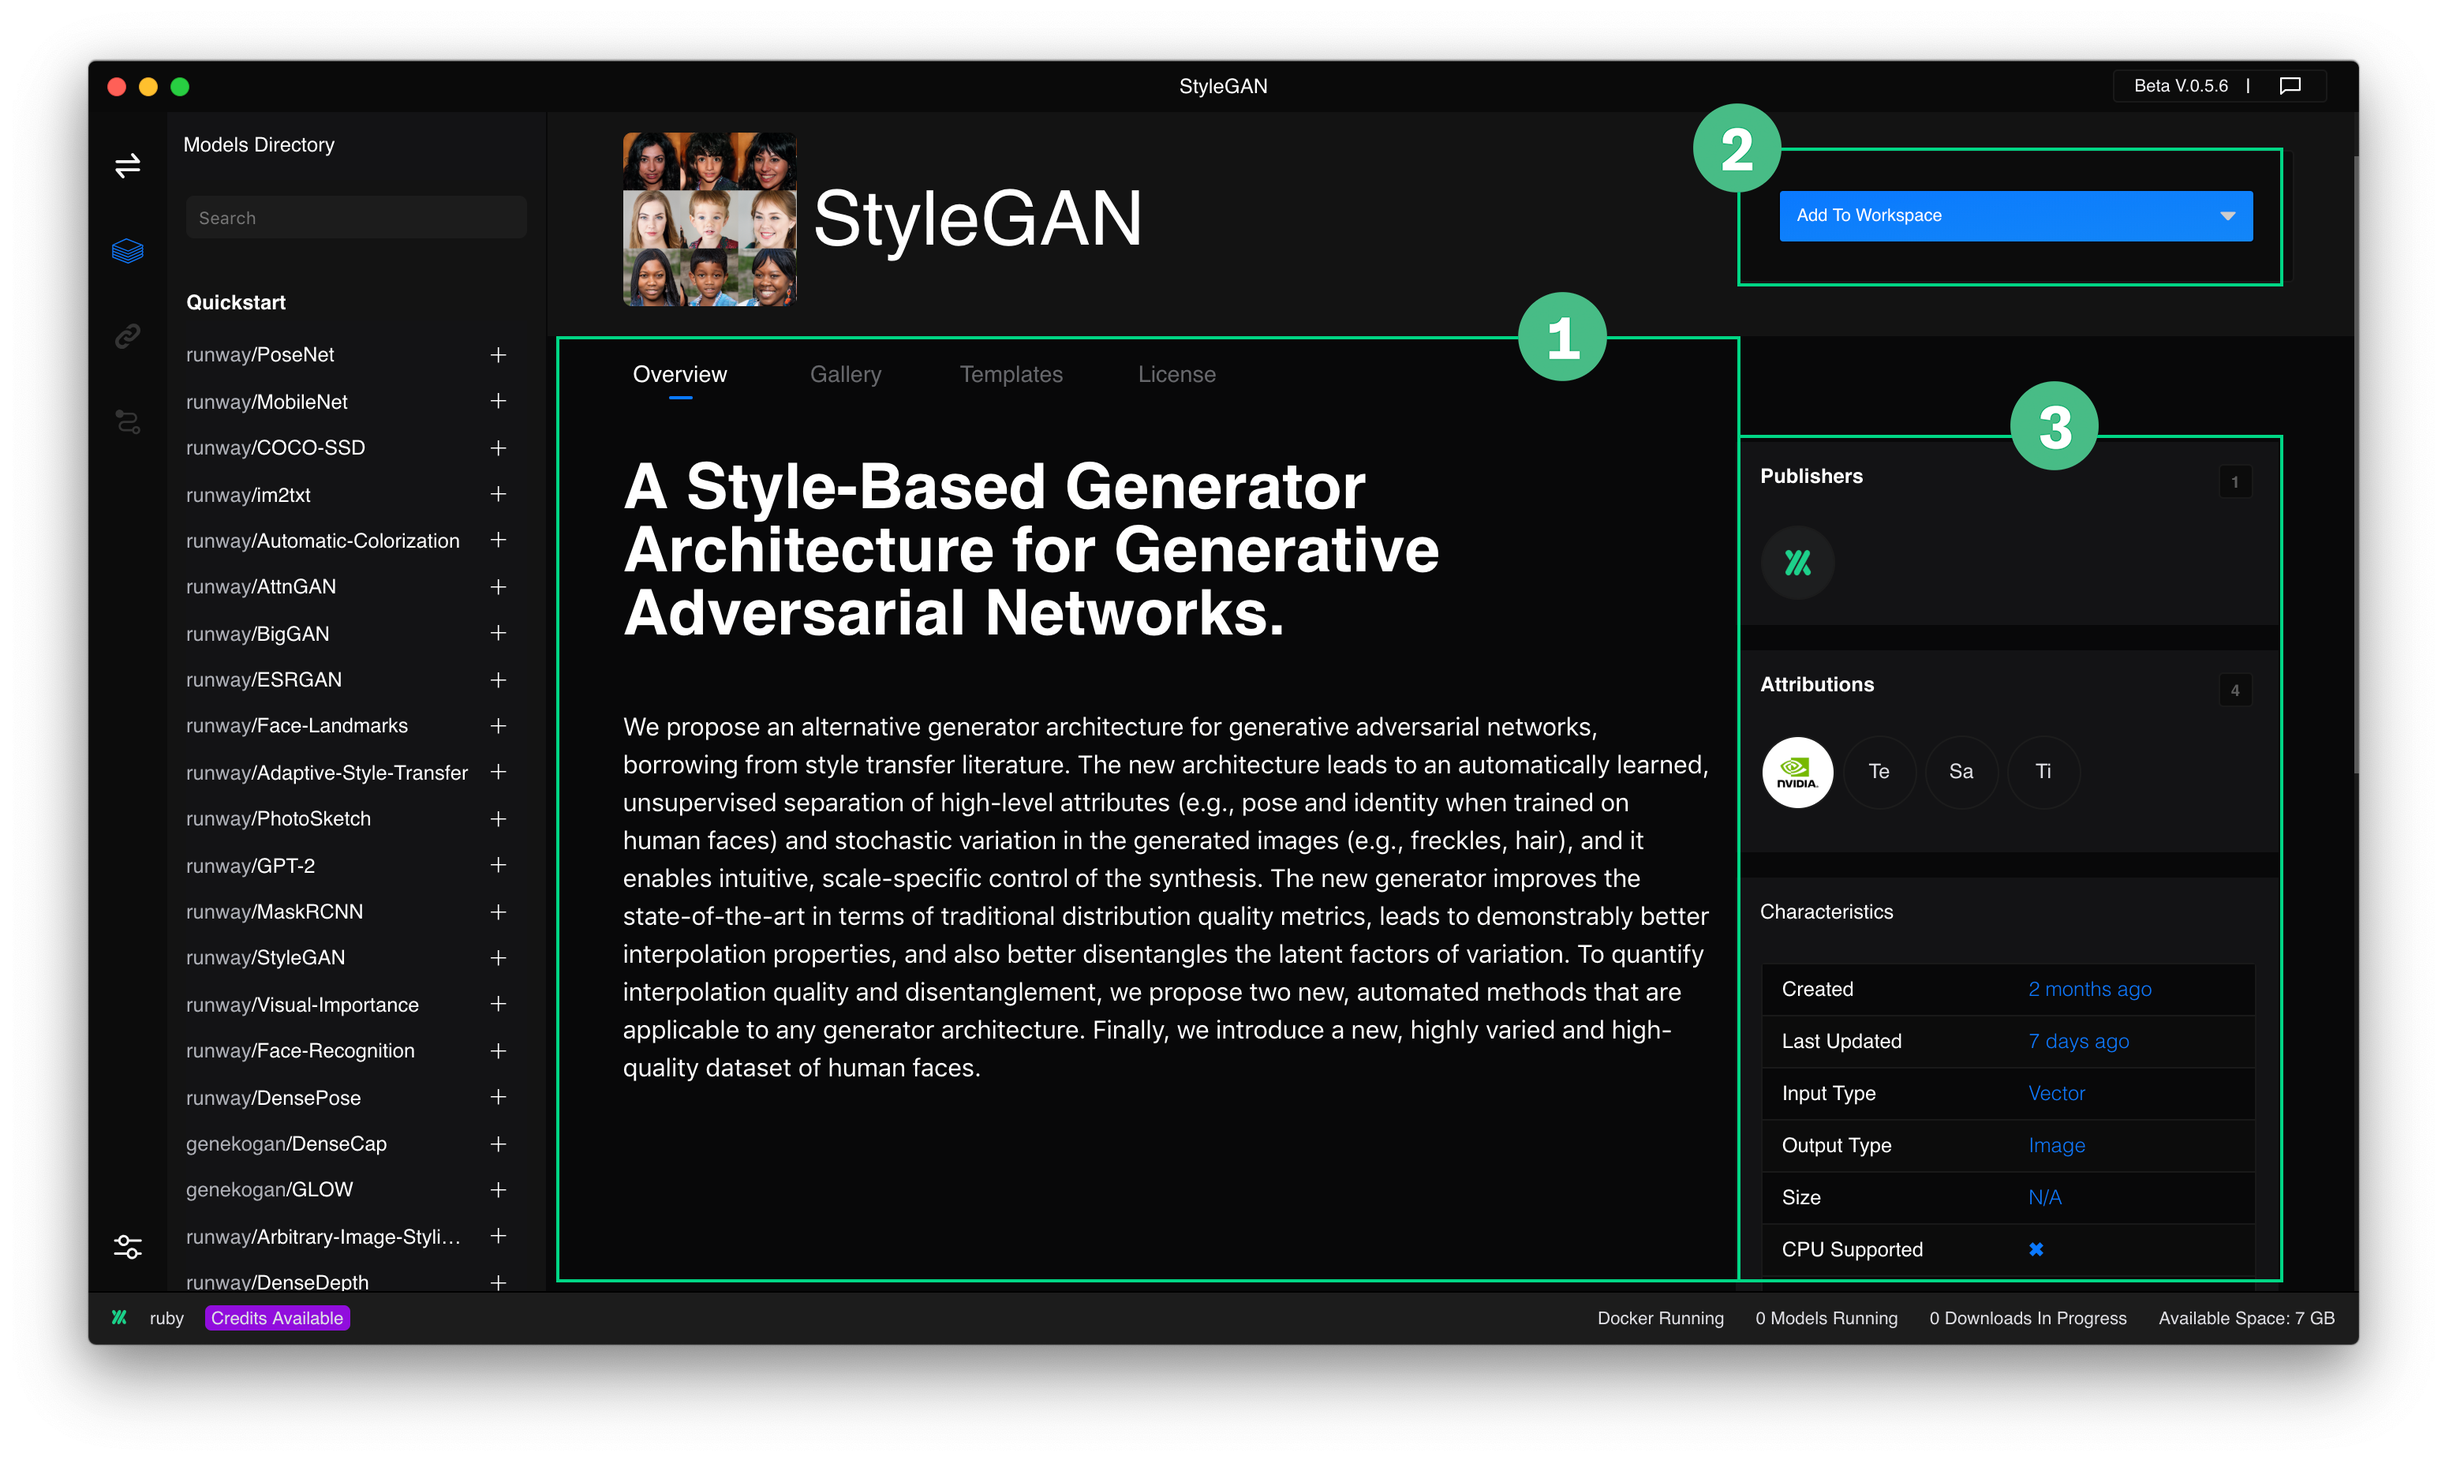
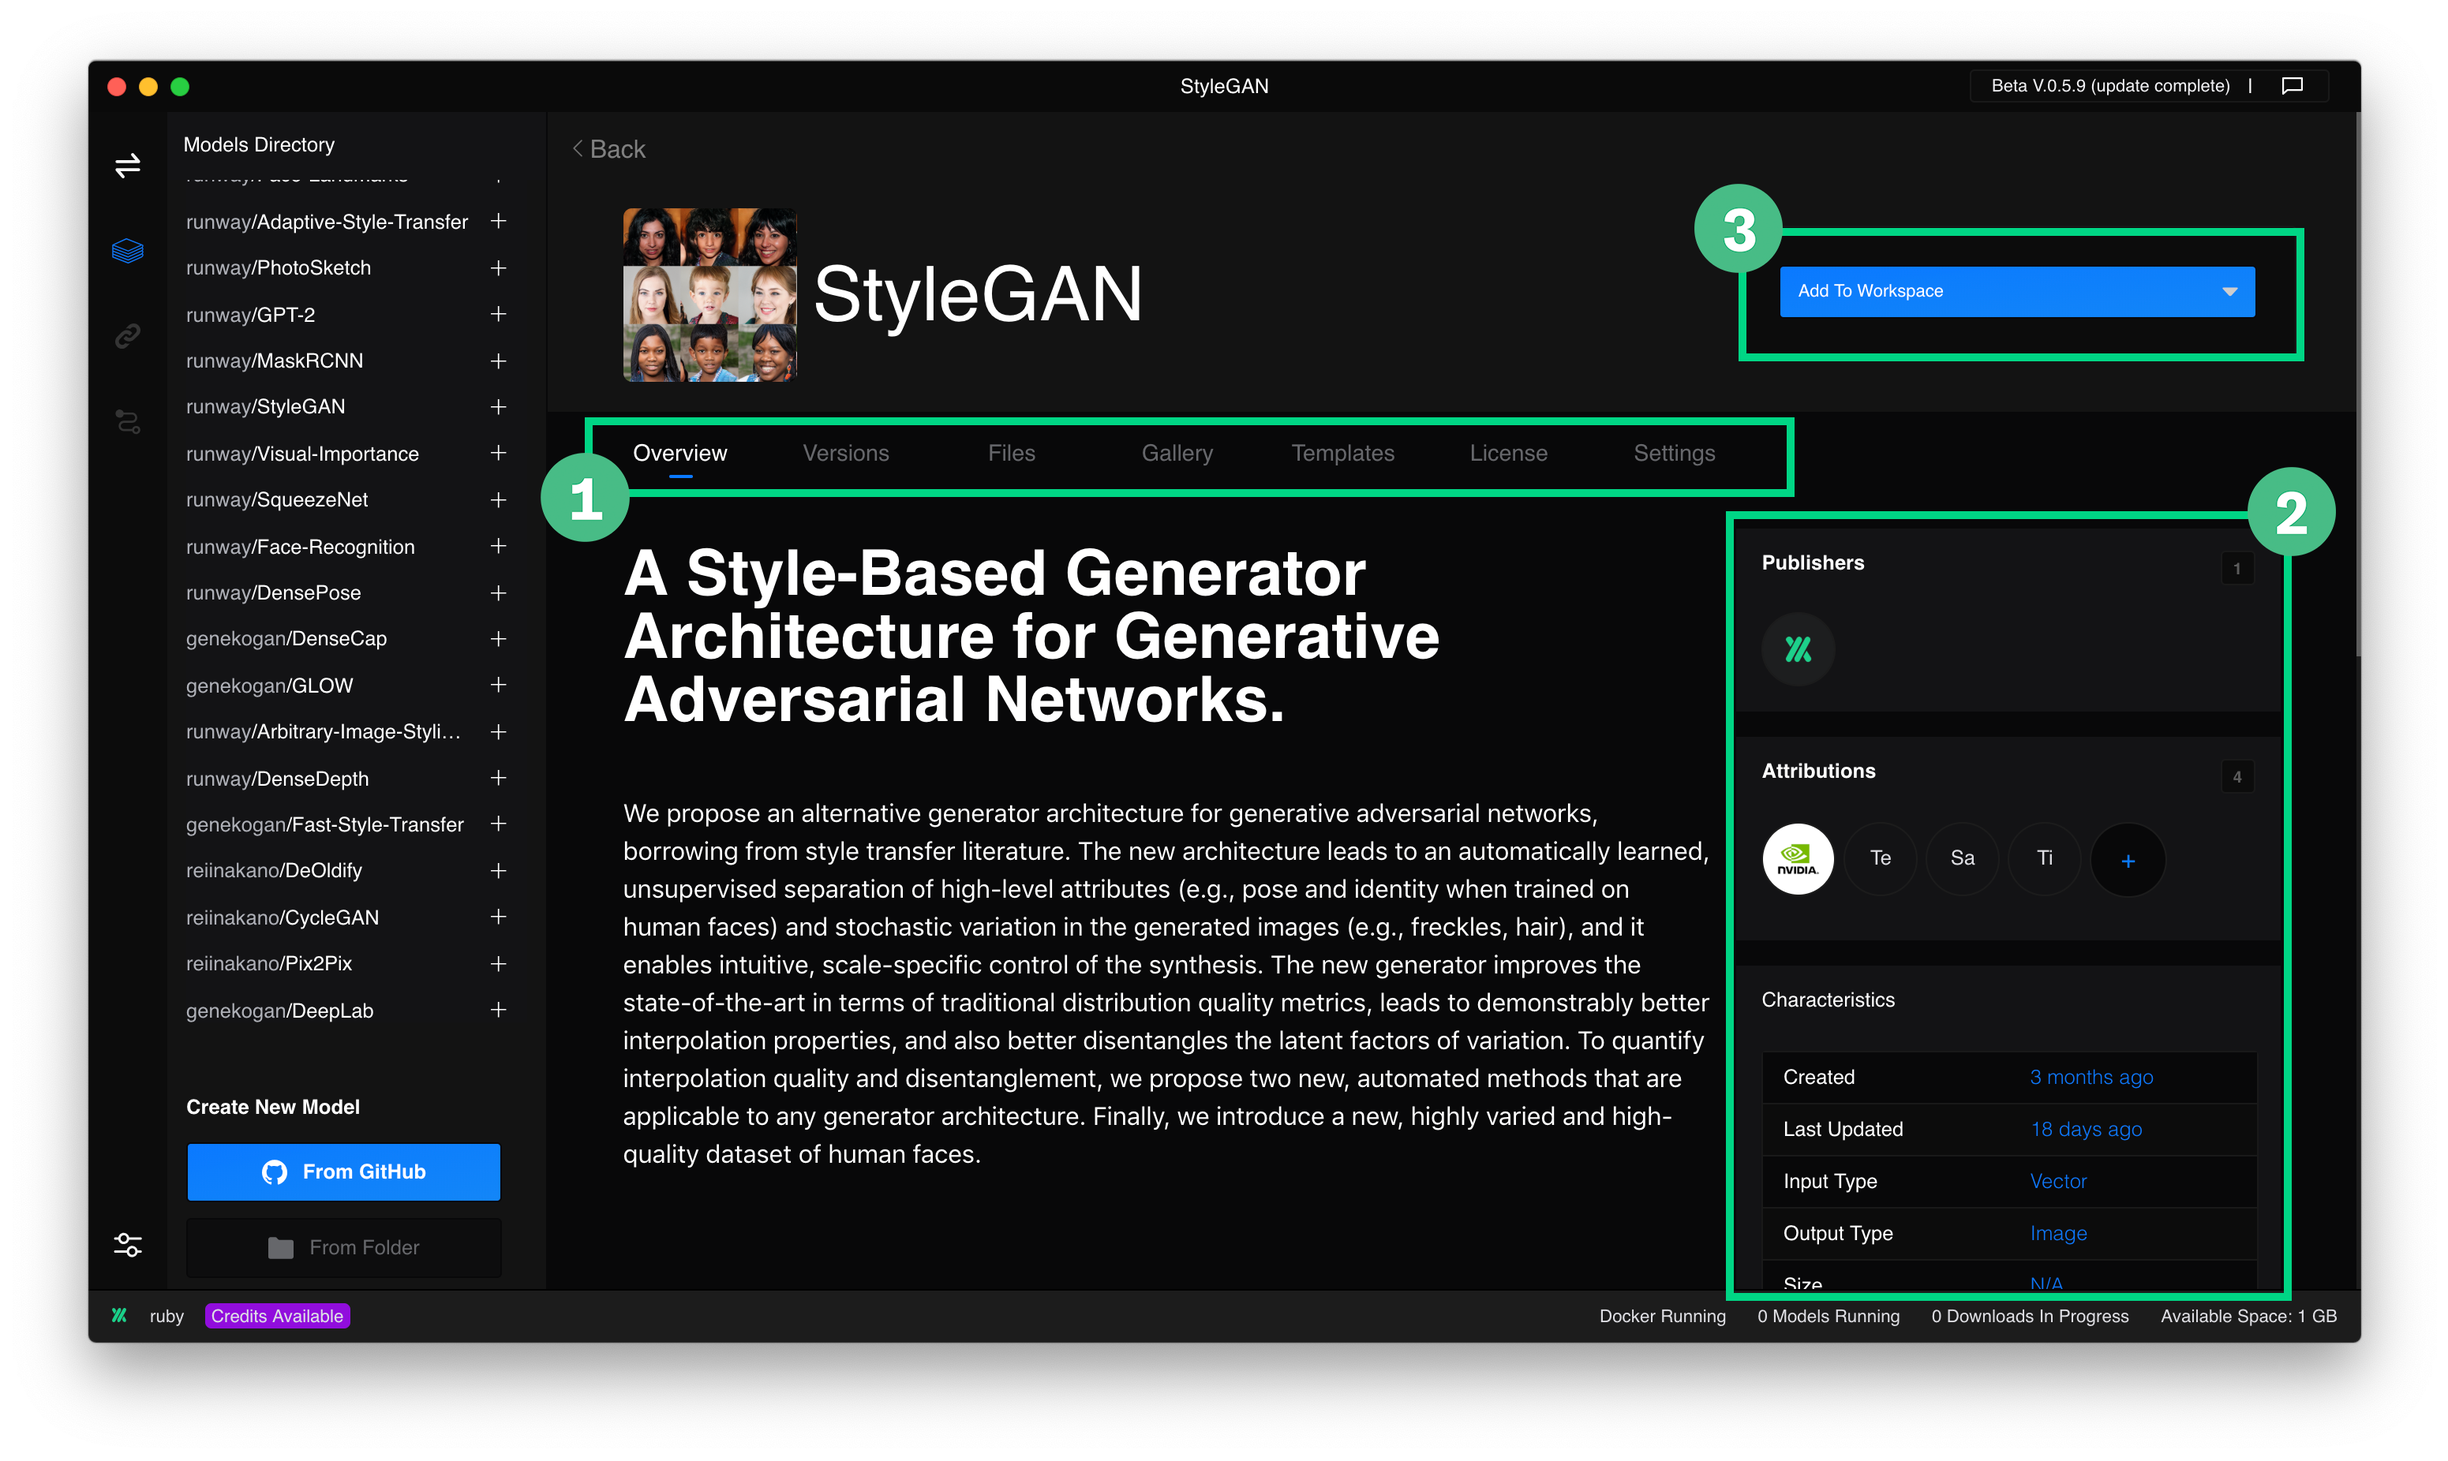
feat(view): adding annotations and tabs for model view

diff --git a/docs/getting-started/overview.md b/docs/getting-started/overview.md
@@ -28,19 +28,109 @@ This view is compromised of 3 main sections: Sidebar, New Model and a Model Box 
 
 Every model in Runway has its own view. From here, you can learn more about the model, authors, specifications and characteristics, examples, license, and more.
 
-![Input/Output View](assets/images/views/model-view.png)
+
+![versions](assets/images/views/model-view-annotated.png)
 
 
-1) **Model Tabs**: TODO
-   - **Overview**: TODO
-   - **Versions**: TODO
-   - **Files**: TODO
-   - **Gallery**: TODO
-   - **Templates**: TODO
-   - **License**: TODO
-   - **Settings**: TODO
 
-2) **Add to Workspace**: This button allows to add the current model in view to a new or existing workspace.
+1) **Model Tabs**
+
+<!-- tabs:start -->
+
+#### **Overview**
+
+Overview provides you with a tagline and a long description detailing what the model does.
+
+![overview](assets/images/views/model-tab/overview.png)
+
+#### **Versions**
+
+Allows you to set what the default model is. You will only be able to do this on models that you have added to Runway.
+
+![versions](assets/images/views/model-tab/versions.png)
+
+#### **Files* **
+
+Shows any pickles that are available for the model, also known as checkpoints.
+
+![versions](assets/images/views/model-tab/files.png)
+
+#### **Gallery**
+
+This shows images of what the model does.
+
+![versions](assets/images/views/model-tab/gallery.png)
+
+#### **Templates* **
+
+This is a quick-start way of using a model.
+
+![versions](assets/images/views/model-tab/templates.png)
+
+#### **License**
+
+This is the license of the model to show what it can be used for, such as commercial purposes.
+
+![versions](assets/images/views/model-tab/license.png)
+
+#### **Settings* **
+
+This is only available if you added the model to Runway. This allows you to rename and remove the model.
+
+![versions](assets/images/views/model-tab/settings.png)
+
+<!-- tabs:end -->
+
+> __Note__: * These tabs are only available if you published the model to Runway
+
+2) **Model Side Bar**
+
+The model side-bar provides you further information.
+
+<!-- tabs:start -->
+
+#### **Publishers**
+
+**Publishers** shows the user who published the model to Runway.
+
+![publishers](assets/images/views/model-sidebar/publishers.png)
+
+#### **Attributions**
+
+**Attributions** show the research institutions and researchers who designed and created the model.
+
+![attributions](assets/images/views/model-sidebar/attributions.png)
+
+#### **Characteristics**
+
+**Characteristics** informs you when the model was published, last updated and if it supports the CPU and/or GPU.
+
+![characteristics](assets/images/views/model-sidebar/characteristics.png)
+
+#### **Keywords**
+
+![keywords](assets/images/views/model-sidebar/keywords.png)
+
+#### **Performance Notes**
+
+**Performance Notes** shows the user who published the model to Runway.
+
+![performance-notes](assets/images/views/model-sidebar/performance-notes.png)
+
+Here you can view the links to the model's code repository as well as research papers associated to the model.
+
+#### **Code, Paper and More**
+
+![versions](assets/images/views/model-sidebar/code-paper.png)
+
+<!-- tabs:end -->
+
+3) **Add to Workspace**
+
+This button allows to add the current model in view to a new or existing workspace.
+
+![add-to-workspace](assets/images/views/add-to-workspace.png)
+
 
 ## Workspaces
 
